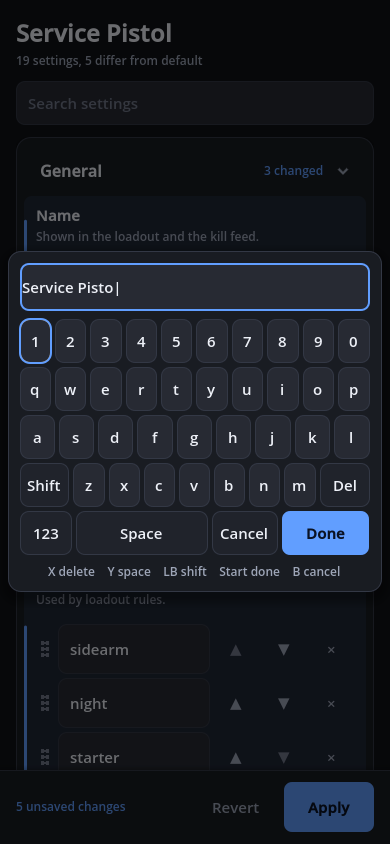
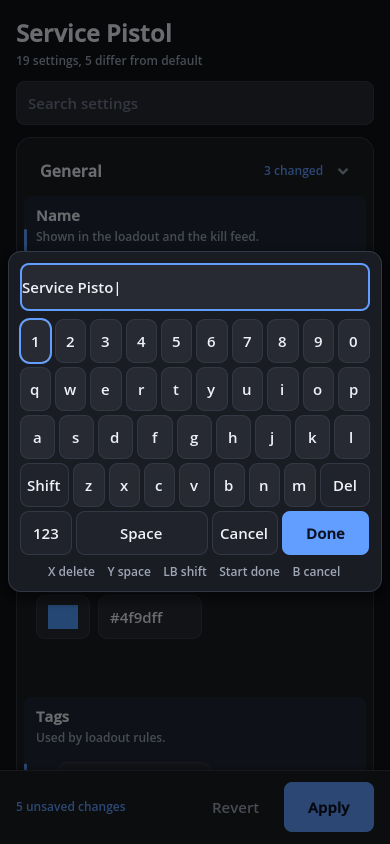
DotUiForm: per-row Undo back to the opening value, next to Reset
undo_key/key_undone; actions drop below the editor on narrow forms. form_selftest 173/173; shots regenerated.

diff --git a/docs/form.md b/docs/form.md
@@ -23,6 +23,7 @@ form.applied.connect(func(changes): save(changes))
 - **Groups** are cards; `group: "Damage/Falloff"` nests one inside another. Cards collapse with a tween, and a badge counts the unsaved changes inside.
 - **Validation** is inline and never reaches `values()`: an invalid entry keeps the last good value, shows its message under the field, and disables Apply (`apply()` fails with `CODE_INVALID`).
 - **Reset** brings one key back to its schema default; **dirty** is any difference from the baseline; `apply()` makes the edits the baseline and emits `applied(changes)`, `revert()` drops them. `set_values` replaces the baseline.
+- **Undo** (next to Reset, shown while a row differs from the baseline) puts one key back to its value when the form opened (`undo_key`, `key_undone`). On a narrow form Undo and Reset sit under the editor on every row.
 - **Search** filters by key, label, description and group, opens a shut card while it matches, and Escape clears it. Ctrl+F focuses it.
 - **Look**: `DotFormTokens` holds spacing, radius, type sizes, colours and elevation, and builds the `Theme` the form carries (it touches nothing outside itself). `dark()`, `light()`, `from_theme(DotUiTheme)`; `form.set_tokens()` swaps live and keeps every edit. `tokens.animate = false` makes every transition a jump (tests, screenshots).
 - **Input**: every editor takes focus (ring drawn), sliders take left and right, Home and End, a toggle takes accept, so the d-pad and keyboard walk the form and the scroll follows focus. Below `compact_below` (560) rows stack and targets grow to 44 px for touch.
